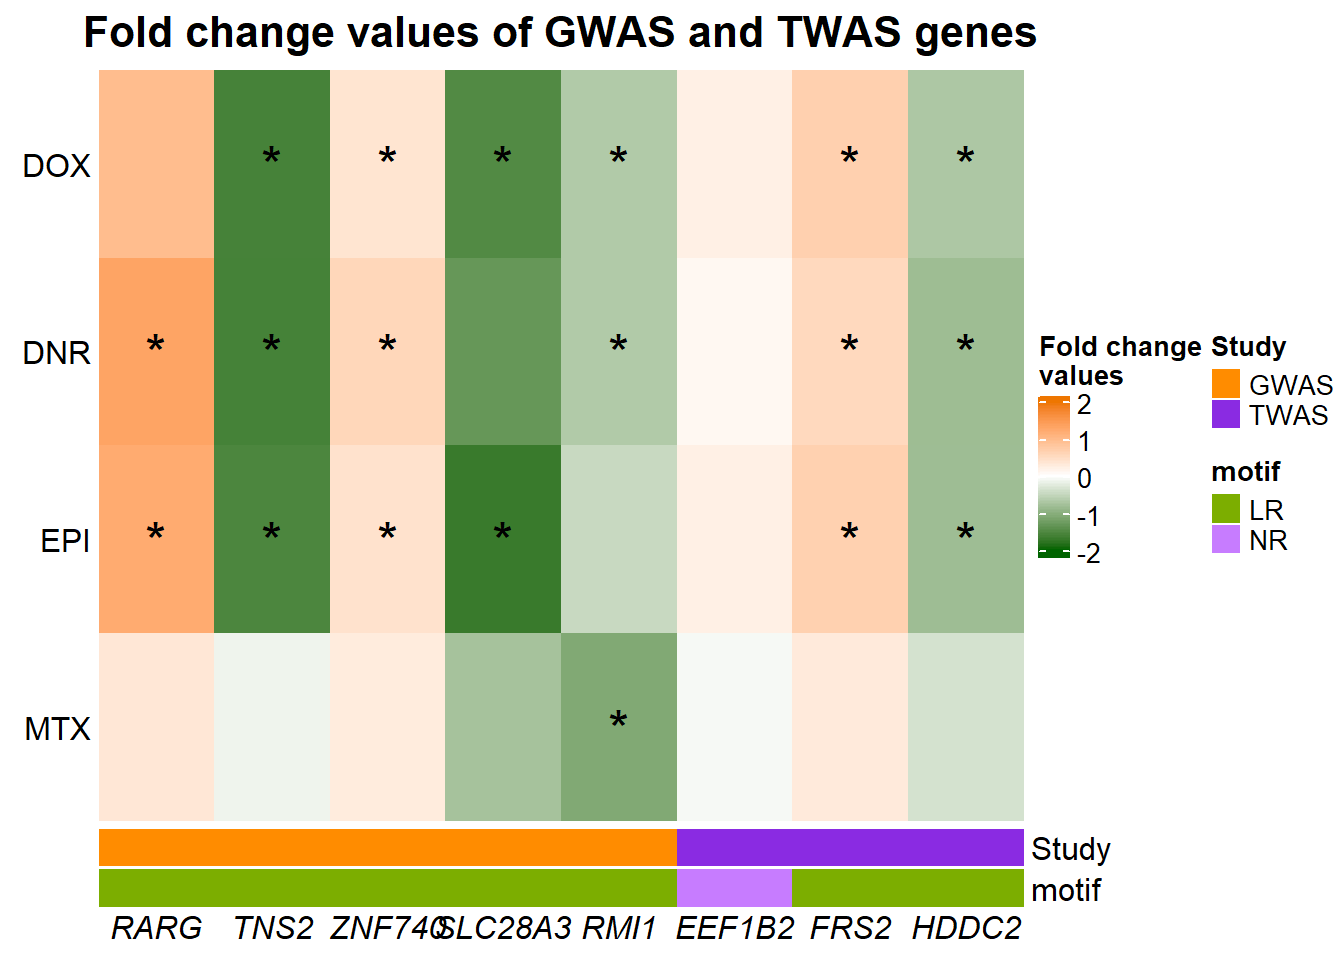
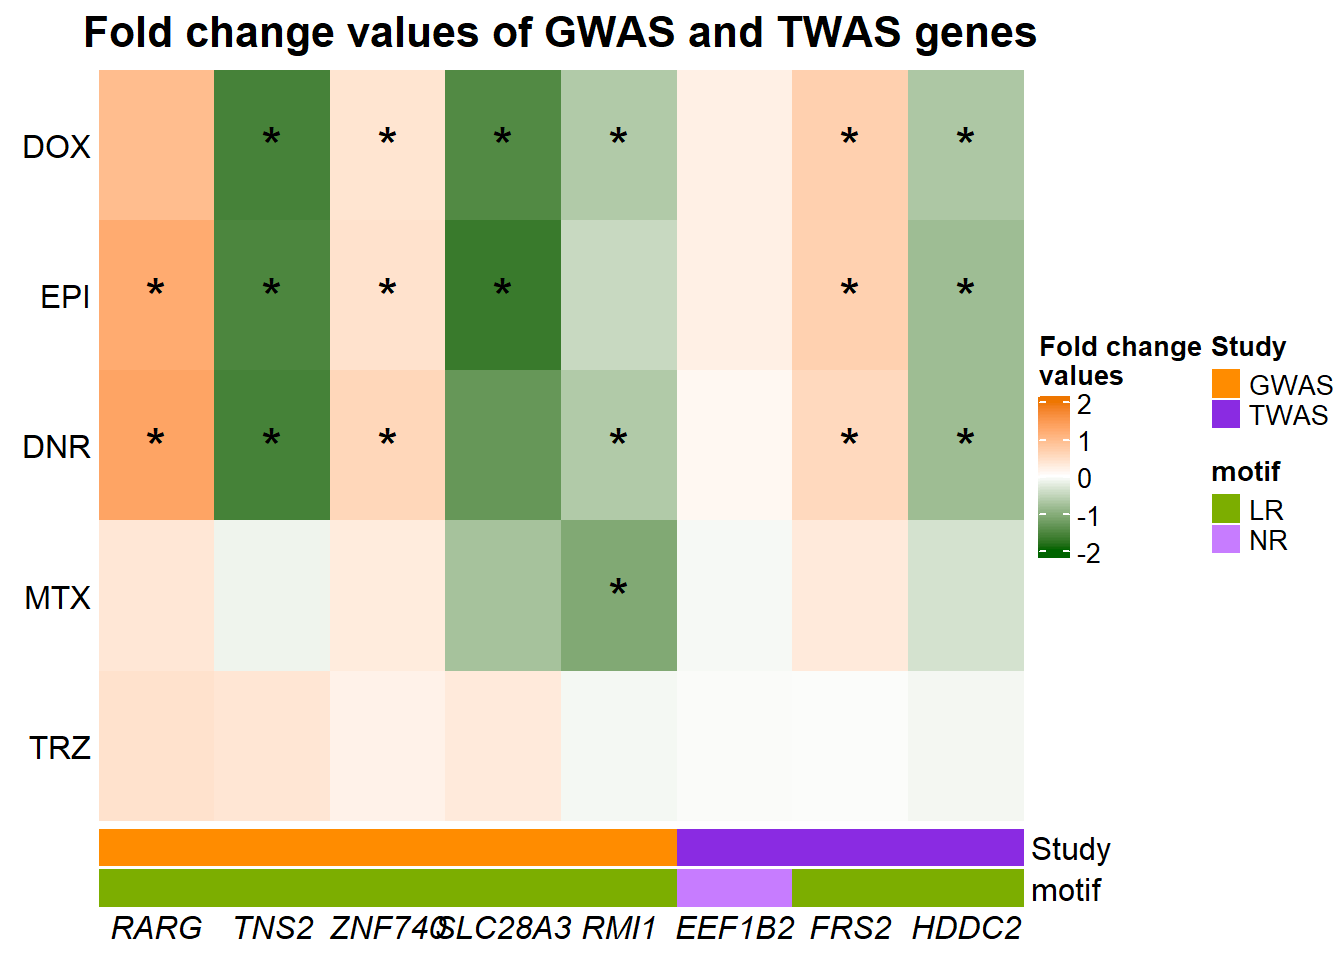
Build site.

diff --git a/docs/Figure9.html b/docs/Figure9.html
@@ -11,11 +11,11 @@
 
 <meta name="author" content="ERM" />
 
-<meta name="date" content="2023-07-07" />
+<meta name="date" content="2023-07-14" />
 
 <title>Figure 9</title>
 
-<script src="site_libs/header-attrs-2.22/header-attrs.js"></script>
+<script src="site_libs/header-attrs-2.23/header-attrs.js"></script>
 <script src="site_libs/jquery-3.6.0/jquery-3.6.0.min.js"></script>
 <meta name="viewport" content="width=device-width, initial-scale=1" />
 <link href="site_libs/bootstrap-3.3.5/css/flatly.min.css" rel="stylesheet" />
@@ -361,7 +361,7 @@ div.tocify {
 
 <h1 class="title toc-ignore">Figure 9</h1>
 <h4 class="author">ERM</h4>
-<h4 class="date">2023-07-07</h4>
+<h4 class="date">2023-07-14</h4>
 
 </div>
 
@@ -390,7 +390,7 @@ class="glyphicon glyphicon-ok text-success" aria-hidden="true"></span>
 <div class="tab-content">
 <div id="summary" class="tab-pane fade in active">
 <p>
-<strong>Last updated:</strong> 2023-07-07
+<strong>Last updated:</strong> 2023-07-14
 </p>
 <p>
 <strong>Checks:</strong> <span
@@ -521,15 +521,15 @@ project makes it easier to run your code on other machines.</p>
 <div class="panel panel-default">
 <div class="panel-heading">
 <p class="panel-title">
-<a data-toggle="collapse" data-parent="#workflowr-checks" href="#strongRepositoryversionstrongahrefhttpsgithubcomreneeisnowhereCardiotoxicitytree5930353189caf135571cb1cc4c869012bdb659b4targetblank5930353a">
+<a data-toggle="collapse" data-parent="#workflowr-checks" href="#strongRepositoryversionstrongahrefhttpsgithubcomreneeisnowhereCardiotoxicitytree66450a6fbf2e45043bbe7b10c25516b2a4844d3etargetblank66450a6a">
 <span class="glyphicon glyphicon-ok text-success"
 aria-hidden="true"></span> <strong>Repository version:</strong>
-<a href="https://github.com/reneeisnowhere/Cardiotoxicity/tree/5930353189caf135571cb1cc4c869012bdb659b4" target="_blank">5930353</a>
+<a href="https://github.com/reneeisnowhere/Cardiotoxicity/tree/66450a6fbf2e45043bbe7b10c25516b2a4844d3e" target="_blank">66450a6</a>
 </a>
 </p>
 </div>
 <div
[2 lines of base64/hex data omitted]
 class="panel-collapse collapse">
 <div class="panel-body">
 <p>
@@ -539,7 +539,7 @@ reproducibility.
 </p>
 <p>
 The results in this page were generated with repository version
-<a href="https://github.com/reneeisnowhere/Cardiotoxicity/tree/5930353189caf135571cb1cc4c869012bdb659b4" target="_blank">5930353</a>.
+<a href="https://github.com/reneeisnowhere/Cardiotoxicity/tree/66450a6fbf2e45043bbe7b10c25516b2a4844d3e" target="_blank">66450a6</a>.
 See the <em>Past versions</em> tab to see a history of the changes made
 to the R Markdown and HTML files.
 </p>
@@ -587,6 +587,8 @@ Ignored files:
     Ignored:    data/HFGWASgene_table.csv
     Ignored:    data/HF_geneset.RDS
     Ignored:    data/Heart_Left_Ventricle.v8.egenes.txt
+    Ignored:    data/Heatmap_mat.RDS
+    Ignored:    data/Heatmap_sig.RDS
     Ignored:    data/Hf_GWAS.txt
     Ignored:    data/K_cluster
     Ignored:    data/K_cluster_kisthree.csv
@@ -625,6 +627,7 @@ Ignored files:
     Ignored:    data/cvd_GWAS.txt
     Ignored:    data/dat_cpm.RDS
     Ignored:    data/data_outline.txt
+    Ignored:    data/drug_noveh1.csv
     Ignored:    data/efit2.RDS
     Ignored:    data/efit2_final.RDS
     Ignored:    data/efit2results.RDS
@@ -648,14 +651,18 @@ Ignored files:
     Ignored:    data/gostrescoNR
     Ignored:    data/gtex/
     Ignored:    data/heartgenes.csv
+    Ignored:    data/hsa_kegg_anno.RDS
     Ignored:    data/individualDRCfile.RDS
     Ignored:    data/individual_DRC48.RDS
     Ignored:    data/individual_LDH48.RDS
+    Ignored:    data/indv_noveh1.csv
     Ignored:    data/kegglistDEG.RDS
     Ignored:    data/knowfig4.csv
     Ignored:    data/knowfig5.csv
     Ignored:    data/label_list.RDS
     Ignored:    data/ld50_table.csv
+    Ignored:    data/mean_vardrug1.csv
+    Ignored:    data/mean_varframe.csv
     Ignored:    data/mymatrix.RDS
     Ignored:    data/nonresponse_cluster24h.csv
     Ignored:    data/norm_LDH.csv
@@ -681,7 +688,10 @@ Ignored files:
     Ignored:    data/supp_normLDH48.RDS
     Ignored:    data/supp_pca_all_anno.RDS
     Ignored:    data/table3a.omar
+    Ignored:    data/testlist.txt
     Ignored:    data/toplistall.RDS
+    Ignored:    data/trtonly_24h_genes.RDS
+    Ignored:    data/trtonly_3h_genes.RDS
     Ignored:    data/tvl24hour.txt
     Ignored:    data/tvl24hourw.txt
     Ignored:    data/venn_code.R
@@ -694,9 +704,14 @@ Untracked files:
     Untracked:  Doxorubicin_vehicle_3_24.csv
     Untracked:  Doxtoplist.csv
     Untracked:  GWAS_list_of_interest.xlsx
+    Untracked:  KEGGpathwaylist.R
     Untracked:  OmicNavigator_learn.R
     Untracked:  SigDoxtoplist.csv
+    Untracked:  analysis/DRC_analysist.Rmd
+    Untracked:  analysis/ciFIT.R
+    Untracked:  analysis/enricher.Rmd
     Untracked:  analysis/export_to_excel.R
+    Untracked:  analysis/untitled1.R
     Untracked:  code/DRC_plotfigure1.png
     Untracked:  code/constantcode.R
     Untracked:  code/cpm_boxplot.R
@@ -705,6 +720,8 @@ Untracked files:
     Untracked:  code/figurelegeddrc.png
     Untracked:  code/movingfilesto_ppl.R
     Untracked:  code/pearson_extract_func.R
+    Untracked:  code/pearson_tox_extract.R
+    Untracked:  code/plot1C.fun.R
     Untracked:  code/spearman_extract_func.R
     Untracked:  cormotif_probability_genelist.csv
     Untracked:  individual-legenddark2.png
@@ -722,6 +739,7 @@ Untracked files:
     Untracked:  output/Volcanoplot_10.RDS
     Untracked:  output/allfinal_sup10.RDS
     Untracked:  output/gene_corr_fig9.RDS
+    Untracked:  output/legend_b.RDS
     Untracked:  output/motif_ERrep.RDS
     Untracked:  output/motif_LRrep.RDS
     Untracked:  output/motif_NRrep.RDS
@@ -733,11 +751,17 @@ Untracked files:
     Untracked:  reneebasecode.R
 
 Unstaged changes:
-    Modified:   Cardiotoxicity.Rproj
+    Modified:   analysis/DEG-GO_analysis.Rmd
     Modified:   analysis/DRC_analysis.Rmd
+    Modified:   analysis/Figure1.Rmd
+    Modified:   analysis/Figure2.Rmd
+    Modified:   analysis/Figure5.Rmd
+    Modified:   analysis/Figure8.Rmd
     Modified:   analysis/GOI_plots.Rmd
+    Modified:   analysis/Knowles2019.Rmd
     Modified:   analysis/Supplementary_figures.Rmd
     Modified:   analysis/other_analysis.Rmd
+    Modified:   analysis/run_all_analysis.Rmd
     Modified:   output/DNRmeSNPs.RDS
     Modified:   output/DNRreQTLs.RDS
     Modified:   output/DOXmeSNPs.RDS
@@ -748,9 +772,14 @@ Unstaged changes:
     Modified:   output/MTXmeSNPs.RDS
     Modified:   output/MTXreQTLs.RDS
     Modified:   output/TNNI_LDH_RNAnormlist.txt
-    Modified:   output/knowles4.RDS
-    Modified:   output/knowles5.RDS
+    Modified:   output/daplot.RDS
+    Modified:   output/dxplot.RDS
+    Modified:   output/epplot.RDS
+    Modified:   output/mtplot.RDS
+    Modified:   output/plan2plot.png
     Modified:   output/toplistall.csv
+    Modified:   output/trplot.RDS
+    Modified:   output/veplot.RDS
 
 </code></pre>
 <p>
@@ -796,6 +825,40 @@ Message
 </tr>
 </thead>
 <tbody>
+<tr>
+<td>
+Rmd
+</td>
+<td>
+<a href="https://github.com/reneeisnowhere/Cardiotoxicity/blob/66450a6fbf2e45043bbe7b10c25516b2a4844d3e/analysis/Figure9.Rmd" target="_blank">66450a6</a>
+</td>
+<td>
+reneeisnowhere
+</td>
+<td>
+2023-07-14
+</td>
+<td>
+updated tox heatmaps
+</td>
+</tr>
+<tr>
+<td>
+html
+</td>
+<td>
+<a href="https://rawcdn.githack.com/reneeisnowhere/Cardiotoxicity/ed18a48b2f89247da196d697d017eb73591027e6/docs/Figure9.html" target="_blank">ed18a48</a>
+</td>
+<td>
+reneeisnowhere
+</td>
+<td>
+2023-07-07
+</td>
+<td>
+Build site.
+</td>
+</tr>
 <tr>
 <td>
 Rmd
@@ -925,36 +988,30 @@ adding heatmaps and plots
 <pre><code>&lt;environment: R_GlobalEnv&gt;</code></pre>
 <div id="figure-9" class="section level1">
 <h1>Figure 9</h1>
-<p>Genes in CVD and AC toxicity respond to Top2i</p>
-<div id="a.-gwas-chi-square-results" class="section level2">
-<h2>A. GWAS chi square results</h2>
-<p><img src="figure/Figure9.Rmd/GWAS%20enrichment-1.png" width="672" style="display: block; margin: auto;" /></p>
-</div>
 <div id="b.-gwas-and-twas-associated-genes" class="section level2">
 <h2>B. GWAS and TWAS associated genes</h2>
 <p><img src="figure/Figure9.Rmd/GWAS-TWAS%20FC%20heatmap-1.png" width="672" style="display: block; margin: auto;" /></p>
 </div>
-<div id="c.-rarg-expression-and-correlation-to-tnni-ld50-and-ldh-values"
-class="section level2">
-<h2>C. RARG expression and correlation to TNNI, LD50, and LDH
-values</h2>
-<p><img src="figure/Figure9.Rmd/rarg%20data-1.png" width="384" style="display: block; margin: auto;" /></p>
-<p><img src="figure/Figure9.Rmd/RARG%20corrdata-1.png" width="768" style="display: block; margin: auto;" /></p>
+<div id="new-cardiotoxicity-score" class="section level2">
+<h2>New Cardiotoxicity Score</h2>
+<div id="extract-for-heatmap" class="section level3">
+<h3>extract for heatmap</h3>
+<p><img src="figure/Figure9.Rmd/heatmap%20long%20RARG-1.png" width="672" style="display: block; margin: auto;" /><img src="figure/Figure9.Rmd/heatmap%20long%20RARG-2.png" width="672" style="display: block; margin: auto;" /></p>
+<p><img src="figure/Figure9.Rmd/heatmap%20long%20TNS2-1.png" width="672" style="display: block; margin: auto;" /><img src="figure/Figure9.Rmd/heatmap%20long%20TNS2-2.png" width="672" style="display: block; margin: auto;" /></p>
+<p><img src="figure/Figure9.Rmd/heatmap%20long%20ZF740-1.png" width="672" style="display: block; margin: auto;" /><img src="figure/Figure9.Rmd/heatmap%20long%20ZF740-2.png" width="672" style="display: block; margin: auto;" /></p>
+</div>
 </div>
 <div
 id="d.-slc28a3-expression-and-correlation-to-tnni-ld50-and-ldh-values"
 class="section level2">
 <h2>D. SLC28A3 expression and correlation to TNNI, LD50, and LDH
 values</h2>
-<p><img src="figure/Figure9.Rmd/SLC%20data-1.png" width="384" style="display: block; margin: auto;" />
-<img src="figure/Figure9.Rmd/SCL%20cor%20data-1.png" width="768" style="display: block; margin: auto;" /></p>
 </div>
 <div id="e.-tns2-expression-and-correlation-to-tnni-ld50-and-ldh-values"
 class="section level2">
 <h2>E. TNS2 expression and correlation to TNNI, LD50, and LDH
 values</h2>
 <p><img src="figure/Figure9.Rmd/TNS2%20data-1.png" width="384" style="display: block; margin: auto;" /></p>
-<p><img src="figure/Figure9.Rmd/TNS2%20cor%20data-1.png" width="768" style="display: block; margin: auto;" /></p>
 </div>
 <div
 id="f.-znf740-expression-and-correlation-to-tnni-ld50-and-ldh-values"
@@ -962,7 +1019,6 @@ class="section level2">
 <h2>F. ZNF740 expression and correlation to TNNI, LD50, and LDH
 values</h2>
 <p><img src="figure/Figure9.Rmd/ZNF740%20data-1.png" width="384" style="display: block; margin: auto;" /></p>
-<p><img src="figure/Figure9.Rmd/ZNF%20cor%20data-1.png" width="768" style="display: block; margin: auto;" /></p>
 <br>
 <p>
 <button type="button" class="btn btn-default btn-workflowr btn-workflowr-sessioninfo" data-toggle="collapse" data-target="#workflowr-sessioninfo" style="display: block;">
@@ -971,11 +1027,12 @@ Session information
 </button>
 </p>
 <div id="workflowr-sessioninfo" class="collapse">
-<pre><code>R version 4.2.2 (2022-10-31 ucrt)
+<pre><code>R version 4.3.1 (2023-06-16 ucrt)
 Platform: x86_64-w64-mingw32/x64 (64-bit)
 Running under: Windows 10 x64 (build 19045)
 
 Matrix products: default
+
 
 locale:
 [1] LC_COLLATE=English_United States.utf8 
@@ -984,52 +1041,55 @@ locale:
 [4] LC_NUMERIC=C                          
 [5] LC_TIME=English_United States.utf8    
 
+time zone: America/Chicago
+tzcode source: internal
+
 attached base packages:
 [1] grid      stats     graphics  grDevices utils     datasets  methods  
 [8] base     
 
 other attached packages:
- [1] ComplexHeatmap_2.12.1 broom_1.0.5           kableExtra_1.3.4     
+ [1] ComplexHeatmap_2.16.0 broom_1.0.5           kableExtra_1.3.4     
  [4] sjmisc_2.8.9          scales_1.2.1          ggpubr_0.6.0         
  [7] cowplot_1.1.1         RColorBrewer_1.1-3    ggsignif_0.6.4       
 [10] lubridate_1.9.2       forcats_1.0.0         stringr_1.5.0        
 [13] dplyr_1.1.2           purrr_1.0.1           readr_2.1.4          
 [16] tidyr_1.3.0           tibble_3.2.1          ggplot2_3.4.2        
-[19] tidyverse_2.0.0       edgeR_3.38.4          limma_3.52.4         
+[19] tidyverse_2.0.0       edgeR_3.42.4          limma_3.56.2         
 [22] workflowr_1.7.0      
 
 loaded via a namespace (and not attached):
- [1] nlme_3.1-162        matrixStats_1.0.0   fs_1.6.2           
- [4] insight_0.19.2      doParallel_1.0.17   webshot_0.5.4      
- [7] httr_1.4.6          rprojroot_2.0.3     tools_4.2.2        
-[10] backports_1.4.1     bslib_0.5.0         utf8_1.2.3         
-[13] R6_2.5.1            sjlabelled_1.2.0    mgcv_1.8-42        
-[16] BiocGenerics_0.42.0 colorspace_2.1-0    GetoptLong_1.0.5   
-[19] withr_2.5.0         tidyselect_1.2.0    processx_3.8.1     
-[22] compiler_4.2.2      git2r_0.32.0        cli_3.6.1          
-[25] rvest_1.0.3         xml2_1.3.4          labeling_0.4.2     
-[28] sass_0.4.6          callr_3.7.3         systemfonts_1.0.4  
-[31] digest_0.6.31       rmarkdown_2.22      svglite_2.1.1      
-[34] pkgconfig_2.0.3     htmltools_0.5.5     highr_0.10         
-[37] fastmap_1.1.1       GlobalOptions_0.1.2 rlang_1.1.1        
-[40] rstudioapi_0.14     farver_2.1.1        shape_1.4.6        
-[43] jquerylib_0.1.4     generics_0.1.3      jsonlite_1.8.5     
-[46] car_3.1-2           magrittr_2.0.3      Matrix_1.5-4.1     
-[49] S4Vectors_0.34.0    Rcpp_1.0.10         munsell_0.5.0      
-[52] fansi_1.0.4         abind_1.4-5         lifecycle_1.0.3    
-[55] stringi_1.7.12      whisker_0.4.1       yaml_2.3.7         
-[58] carData_3.0-5       parallel_4.2.2      promises_1.2.0.1   
-[61] crayon_1.5.2        lattice_0.21-8      splines_4.2.2      
-[64] circlize_0.4.15     hms_1.1.3           locfit_1.5-9.8     
-[67] knitr_1.43          ps_1.7.5            pillar_1.9.0       
-[70] rjson_0.2.21        stats4_4.2.2        codetools_0.2-19   
-[73] glue_1.6.2          evaluate_0.21       getPass_0.2-2      
-[76] vctrs_0.6.3         png_0.1-8           tzdb_0.4.0         
-[79] httpuv_1.6.11       foreach_1.5.2       gtable_0.3.3       
-[82] clue_0.3-64         cachem_1.0.8        xfun_0.39          
-[85] rstatix_0.7.2       later_1.3.1         viridisLite_0.4.2  
-[88] iterators_1.0.14    IRanges_2.30.1      cluster_2.1.4      
-[91] timechange_0.2.0   </code></pre>
+ [1] rlang_1.1.1         magrittr_2.0.3      clue_0.3-64        
+ [4] GetoptLong_1.0.5    git2r_0.32.0        matrixStats_1.0.0  
+ [7] compiler_4.3.1      mgcv_1.9-0          getPass_0.2-2      
+[10] png_0.1-8           systemfonts_1.0.4   callr_3.7.3        
+[13] vctrs_0.6.3         rvest_1.0.3         pkgconfig_2.0.3    
+[16] shape_1.4.6         crayon_1.5.2        fastmap_1.1.1      
+[19] backports_1.4.1     labeling_0.4.2      utf8_1.2.3         
+[22] promises_1.2.0.1    rmarkdown_2.23      tzdb_0.4.0         
+[25] ps_1.7.5            xfun_0.39           cachem_1.0.8       
+[28] jsonlite_1.8.7      highr_0.10          later_1.3.1        
+[31] parallel_4.3.1      cluster_2.1.4       R6_2.5.1           
+[34] bslib_0.5.0         stringi_1.7.12      car_3.1-2          
+[37] jquerylib_0.1.4     Rcpp_1.0.11         iterators_1.0.14   
+[40] knitr_1.43          IRanges_2.34.1      Matrix_1.6-0       
+[43] splines_4.3.1       httpuv_1.6.11       timechange_0.2.0   
+[46] tidyselect_1.2.0    rstudioapi_0.15.0   abind_1.4-5        
+[49] yaml_2.3.7          doParallel_1.0.17   codetools_0.2-19   
+[52] sjlabelled_1.2.0    processx_3.8.1      lattice_0.21-8     
+[55] withr_2.5.0         evaluate_0.21       xml2_1.3.5         
+[58] circlize_0.4.15     pillar_1.9.0        carData_3.0-5      
+[61] whisker_0.4.1       foreach_1.5.2       stats4_4.3.1       
+[64] insight_0.19.3      generics_0.1.3      rprojroot_2.0.3    
+[67] hms_1.1.3           S4Vectors_0.38.1    munsell_0.5.0      
+[70] glue_1.6.2          tools_4.3.1         locfit_1.5-9.8     
+[73] webshot_0.5.5       fs_1.6.2            colorspace_2.1-0   
+[76] nlme_3.1-162        cli_3.6.1           fansi_1.0.4        
+[79] viridisLite_0.4.2   svglite_2.1.1       gtable_0.3.3       
+[82] rstatix_0.7.2       sass_0.4.6          digest_0.6.33      
+[85] BiocGenerics_0.46.0 farver_2.1.1        rjson_0.2.21       
+[88] htmltools_0.5.5     lifecycle_1.0.3     httr_1.4.6         
+[91] GlobalOptions_0.1.2</code></pre>
 </div>
 </div>
 </div>
